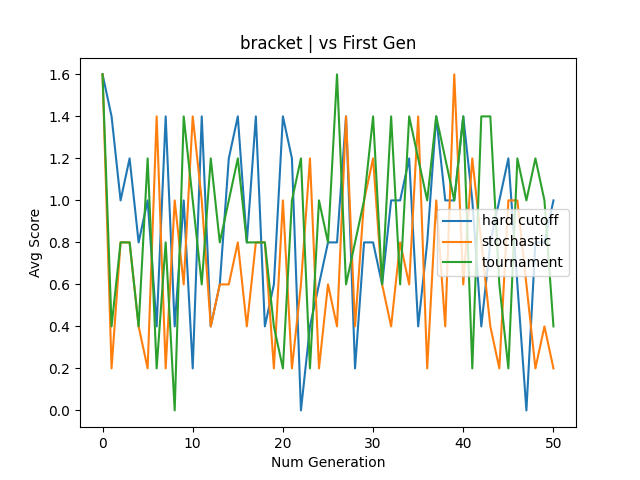
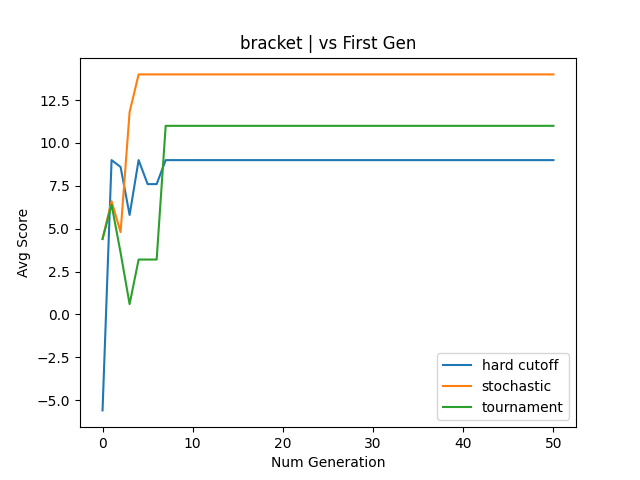
finished gen alg 2.0

diff --git a/src/tic_tac_toe/genetic_algorithm/ver_2/genetic_alg_test.py b/src/tic_tac_toe/genetic_algorithm/ver_2/genetic_alg_test.py
@@ -55,11 +55,11 @@ def vs_prev_gen(initial_players, selection_method, fitness_method, population_si
         plt.clf()
 
 def vs_first_and_prev_gen(initial_players, selection_method, fitness_method, population_size, plot=False):
-    get_scores(initial_players, fitness_method)
+    get_scores(initial_players, 'round_robin')
     generations_first = {0:initial_players}
     generations_prev = {0:initial_players}
 
-    get_scores(initial_players, fitness_method, opponents=generations_first[0][:5])
+    get_scores(initial_players, 'round_robin', opponents=generations_first[0][:5])
     gen_scores_first = [s.mean([p.score for p in generations_first[0][:5]])]
     gen_scores_prev = [s.mean([p.score for p in generations_prev[0][:5]])]
 
@@ -67,13 +67,13 @@ def vs_first_and_prev_gen(initial_players, selection_method, fitness_method, pop
         print(gen_num)
         generations_first[gen_num] = create_new_generation(generations_first[gen_num-1], selection_method, fitness_method, population_size)
         top_players = generations_first[gen_num][:5]
-        get_scores(generations_first[gen_num-1], fitness_method, opponents=top_players)
+        get_scores(initial_players, 'round_robin', opponents=top_players)
         gen_scores_first.append(s.mean([p.score for p in top_players]))
 
 
         generations_prev[gen_num] = create_new_generation(generations_prev[gen_num-1], selection_method, fitness_method, population_size)
         top_players = generations_prev[gen_num][:5]
-        get_scores(initial_players, fitness_method, opponents=top_players)
+        get_scores(generations_prev[gen_num-1], 'round_robin', opponents=top_players)
         gen_scores_prev.append(s.mean([p.score for p in top_players]))
         
     plt.figure(1)
@@ -97,9 +97,12 @@ def vs_first_and_prev_gen(initial_players, selection_method, fitness_method, pop
         plt.savefig(f'src/tic_tac_toe/genetic_algorithm/ver_2/plots/{fitness_method}_vs_prev_gen.png')
 
 
-first_gen_players = [DictPlayer() for _ in range(64)]
+first_gen_players = [DictPlayer() for _ in range(32)]
 
+# for _ in range(10):
+#     create_new_generation(first_gen_players, 'hard cutoff', 'bracket', 32)
 
+# quit()
 selection_methods = ['hard cutoff', 'stochastic', 'tournament']
 
 for method in selection_methods:

diff --git a/src/tic_tac_toe/genetic_algorithm/ver_2/genetic_algorithm.py b/src/tic_tac_toe/genetic_algorithm/ver_2/genetic_algorithm.py
@@ -1,10 +1,8 @@
-import sys
+import sys, statistics as s, matplotlib.pyplot as plt
 sys.path.append('src/tic_tac_toe')
 from dictionary_player import *
 from game import *
 from itertools import combinations, product
-import matplotlib.pyplot as plt
-import statistics as s
 
 
 def get_scores(players, fitness_method, opponents=None):
@@ -31,6 +29,7 @@ def get_scores(players, fitness_method, opponents=None):
       if type(game.winner) is int:
         game.players[game.winner-1].score += 1
         game.players[(3-game.winner)-1].score -= 1
+
   elif fitness_method == 'bracket':
     if opponents != None:
       player_matchups = list(zip(players,opponents))
@@ -51,7 +50,6 @@ def get_scores(players, fitness_method, opponents=None):
           winner.score += 1
       player_matchups = [(next_bracket[i],next_bracket[i+1]) for i in range(0,len(next_bracket)-1,2)]
 
-
   else:
     raise Exception('Invalid Fitness Method')
 
@@ -61,6 +59,39 @@ def create_new_generation(prev_gen, selection_method, fitness_method, population
   if selection_method == 'hard cutoff':
     get_scores(prev_gen, fitness_method)
     parents = sort_by_score(prev_gen)[:population_size//4]
+    
+    # best = parents[0]
+    # win=0
+    # lose = 0
+    # for p in prev_gen:
+    #   best_score = 0
+    #   p_score = 0
+
+    #   game = Game([best, p], starting_player=1)
+    #   game.run_to_completion()
+
+    #   if game.winner == 1:
+    #     best_score += 1
+    #   if game.winner == 2:
+    #     p_score += 1
+      
+    #   game = Game([best, p], starting_player=2)
+    #   game.run_to_completion()
+
+    #   if game.winner == 1:
+    #     best_score += 1
+    #   if game.winner == 2:
+    #     p_score += 1
+      
+    #   if best_score > p_score:
+    #     win += 1
+    #   elif p_score > best_score:
+    #     lose += 1
+
+    
+    # print(f'won {win}/{len(prev_gen)} games')
+    # print(f'lost {lose}/{len(prev_gen)} games\n')
+
 
   elif selection_method == 'stochastic':
     get_scores(prev_gen, fitness_method)
@@ -81,7 +112,6 @@ def create_new_generation(prev_gen, selection_method, fitness_method, population
 
   else:
     raise Exception('Invalid Selection Method')
-
 
   for _ in range(population_size):
     children.append(mate(parents, mutation_rate))
